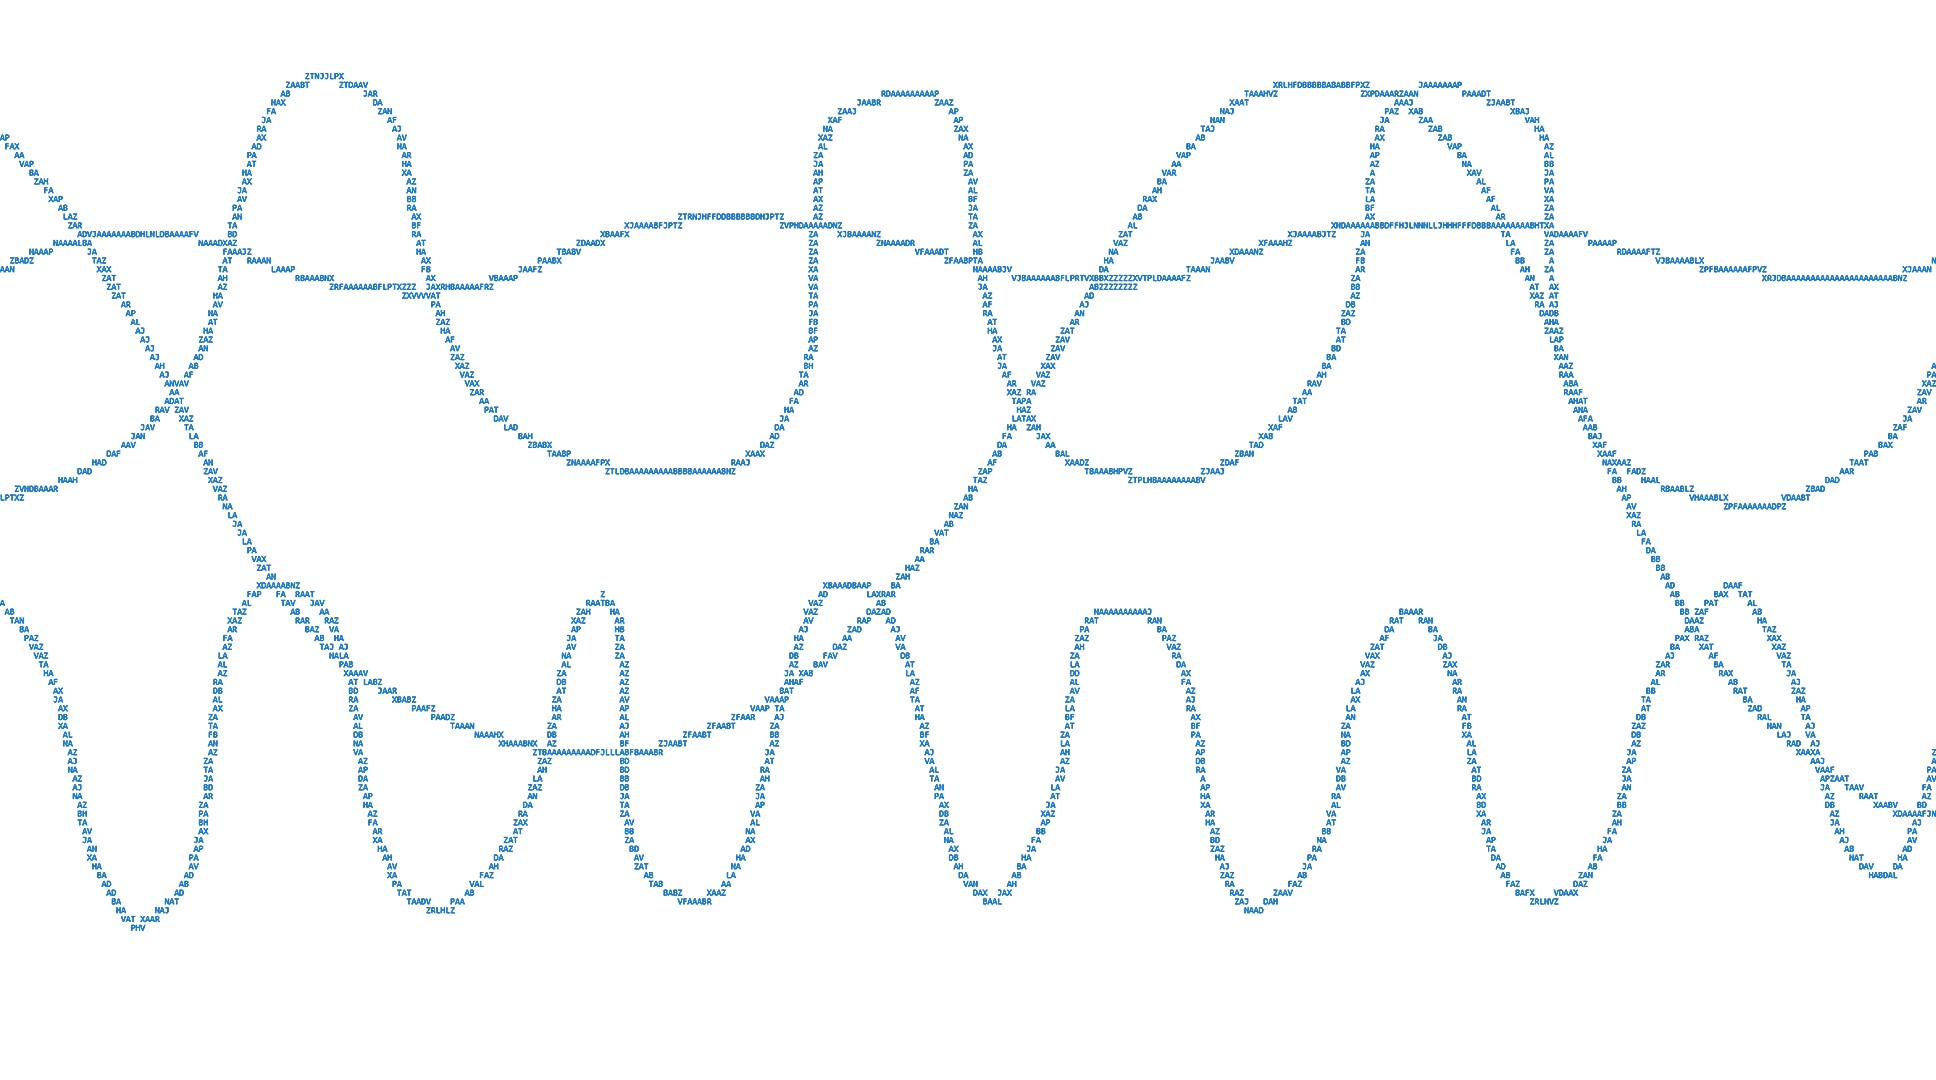
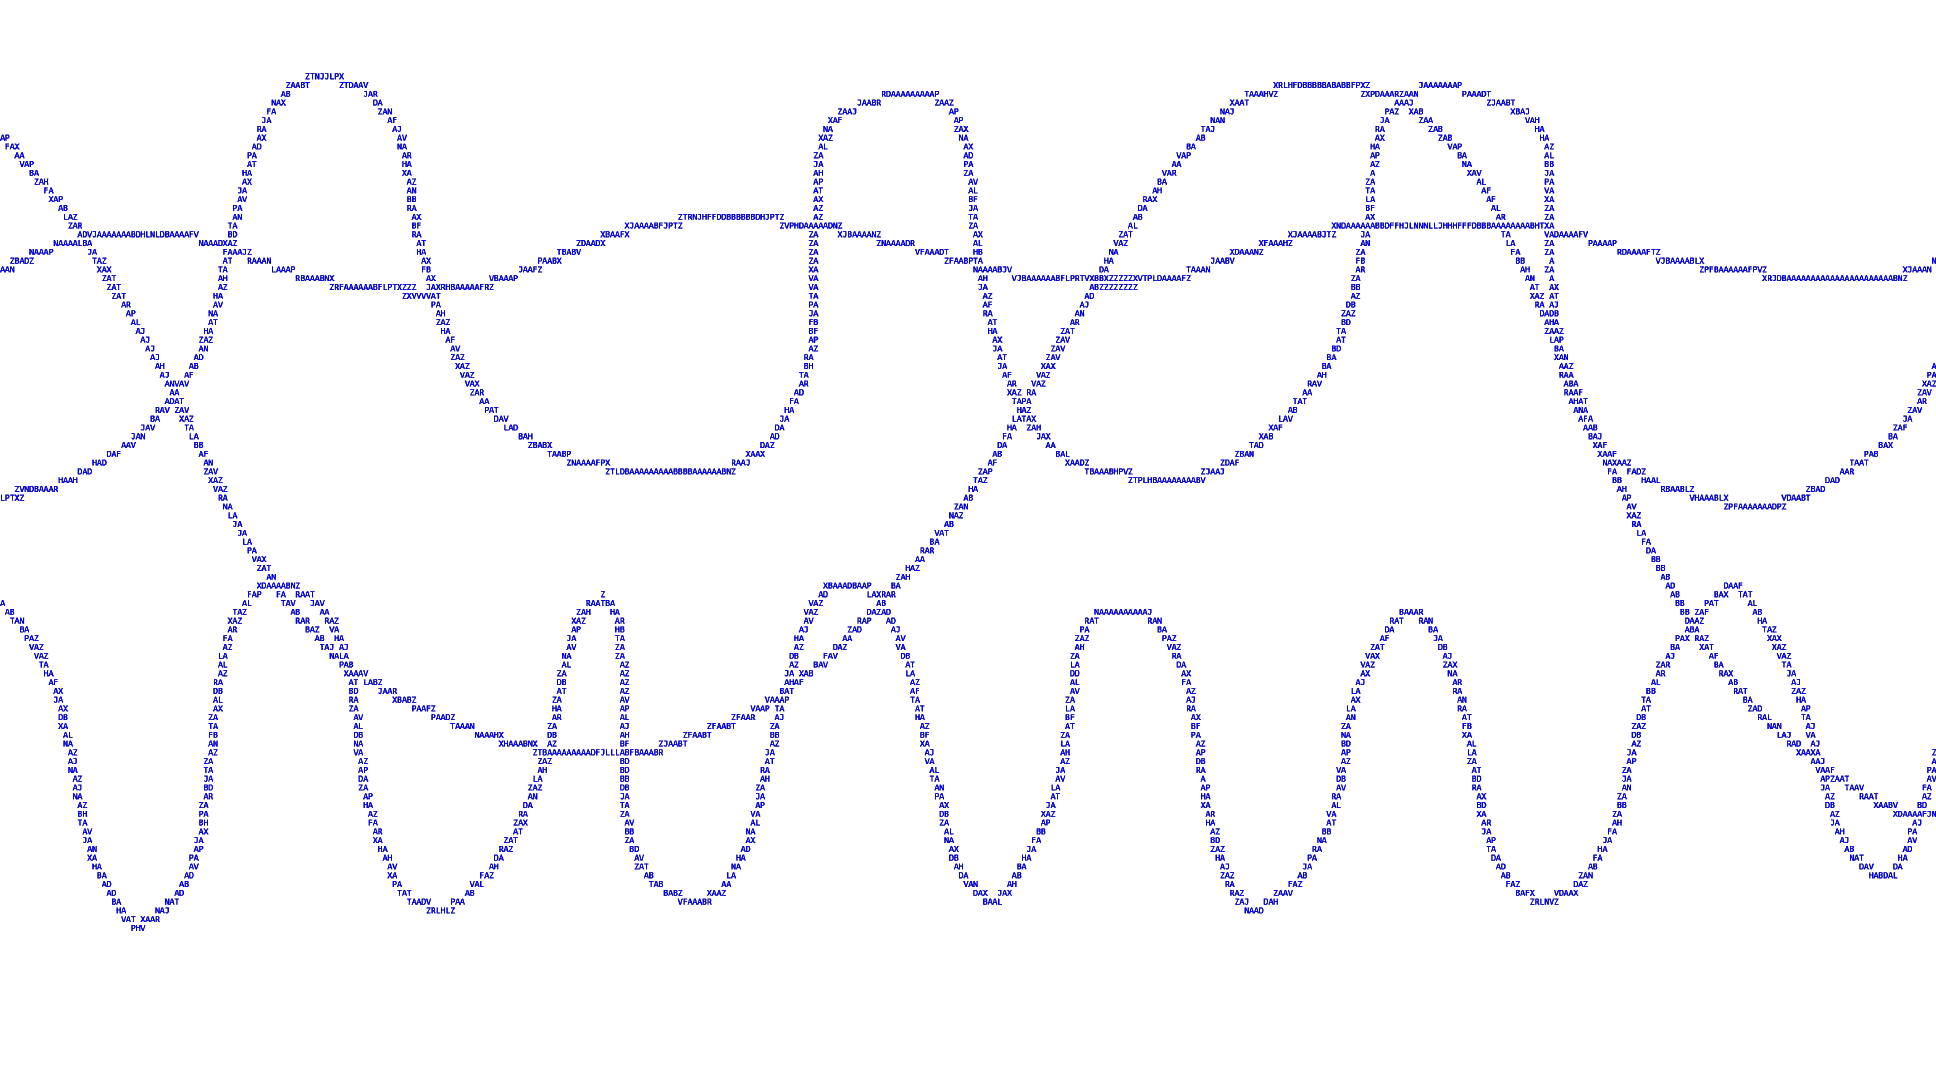
html_a_0.07 maiden

diff --git a/style.css b/style.css
@@ -3,17 +3,20 @@
 }
 
 #bg-container {
+
+    position:relative;
     top:0;
     bottom:0;
     left:0;
     right:0;
     margin: 0 auto;
 
-    background-color: #f5f6fa;
+    background-color: #ffffff;
     border: 0.3vw double #052698;
 }
 
 #chat-layout {
+
     display:grid;
     grid-template-columns: repeat(2, 1fr);
     gap: 0.01vw;
@@ -27,9 +30,11 @@
     right:0;
     margin: auto;
     max-height: 50%;
+    z-index: 2;
 }
 
 #user-container {
+
     display: flex;
     flex-direction: column;
     align-items:center;
@@ -44,13 +49,16 @@
     margin: 0 auto;
     display: flex;
     flex-direction: column;
+    overflow: hidden;
 
-    anchor-name: --dialogue-scene;
 }
 
 #message-container {
+
     flex: 1;
-    overflow: auto;
+    min-height: 0;
+    overflow-y: auto;
+
 }
 
 #message-input {
@@ -58,9 +66,24 @@
     flex: 0 0 auto;
 }
 
+#maiden-img {
+
+    position: absolute;
+    position-anchor: --bg-container;
+    right: 0;
+    bottom: 0;
+    z-index: 1;
+    max-height: 75%  ;
+
+}
+
 .message {
     border-width: 2px;
     border-style: dotted;
-    border-color: rgb(255, 255, 255);
+    border-color: white;
     color: white;
+}
+
+.window {
+    border: 1em solid rgb(219, 219, 219);
 }

diff --git a/index.html b/index.html
@@ -14,11 +14,11 @@
         <div id="chat-layout">
 
 
-            <div id="user-container" style="background-color: #0984e3; width:95%; text-align:center">
+            <div id="user-container" class="window" style="background-color: #3b3b3bb2; width:95%; text-align:center">
 
             </div>
 
-            <div id="dialogue-container" style="background-color: #0984e3; width:95%; text-align:center">
+            <div id="dialogue-container" class="window" style="background-color: #3b3b3bb2; width:95%; text-align:center">
 
                 <div id="message-container"></div>
                 <div id="message-input">
@@ -30,6 +30,8 @@
         </div>
 
         <div class='test-window' style='border: 2px double black;'><button id="user-auth-btn">Change auth flag</button></div>
+
+        <img id="maiden-img" src="assets/img/maiden.png">
 
     </div>
 
